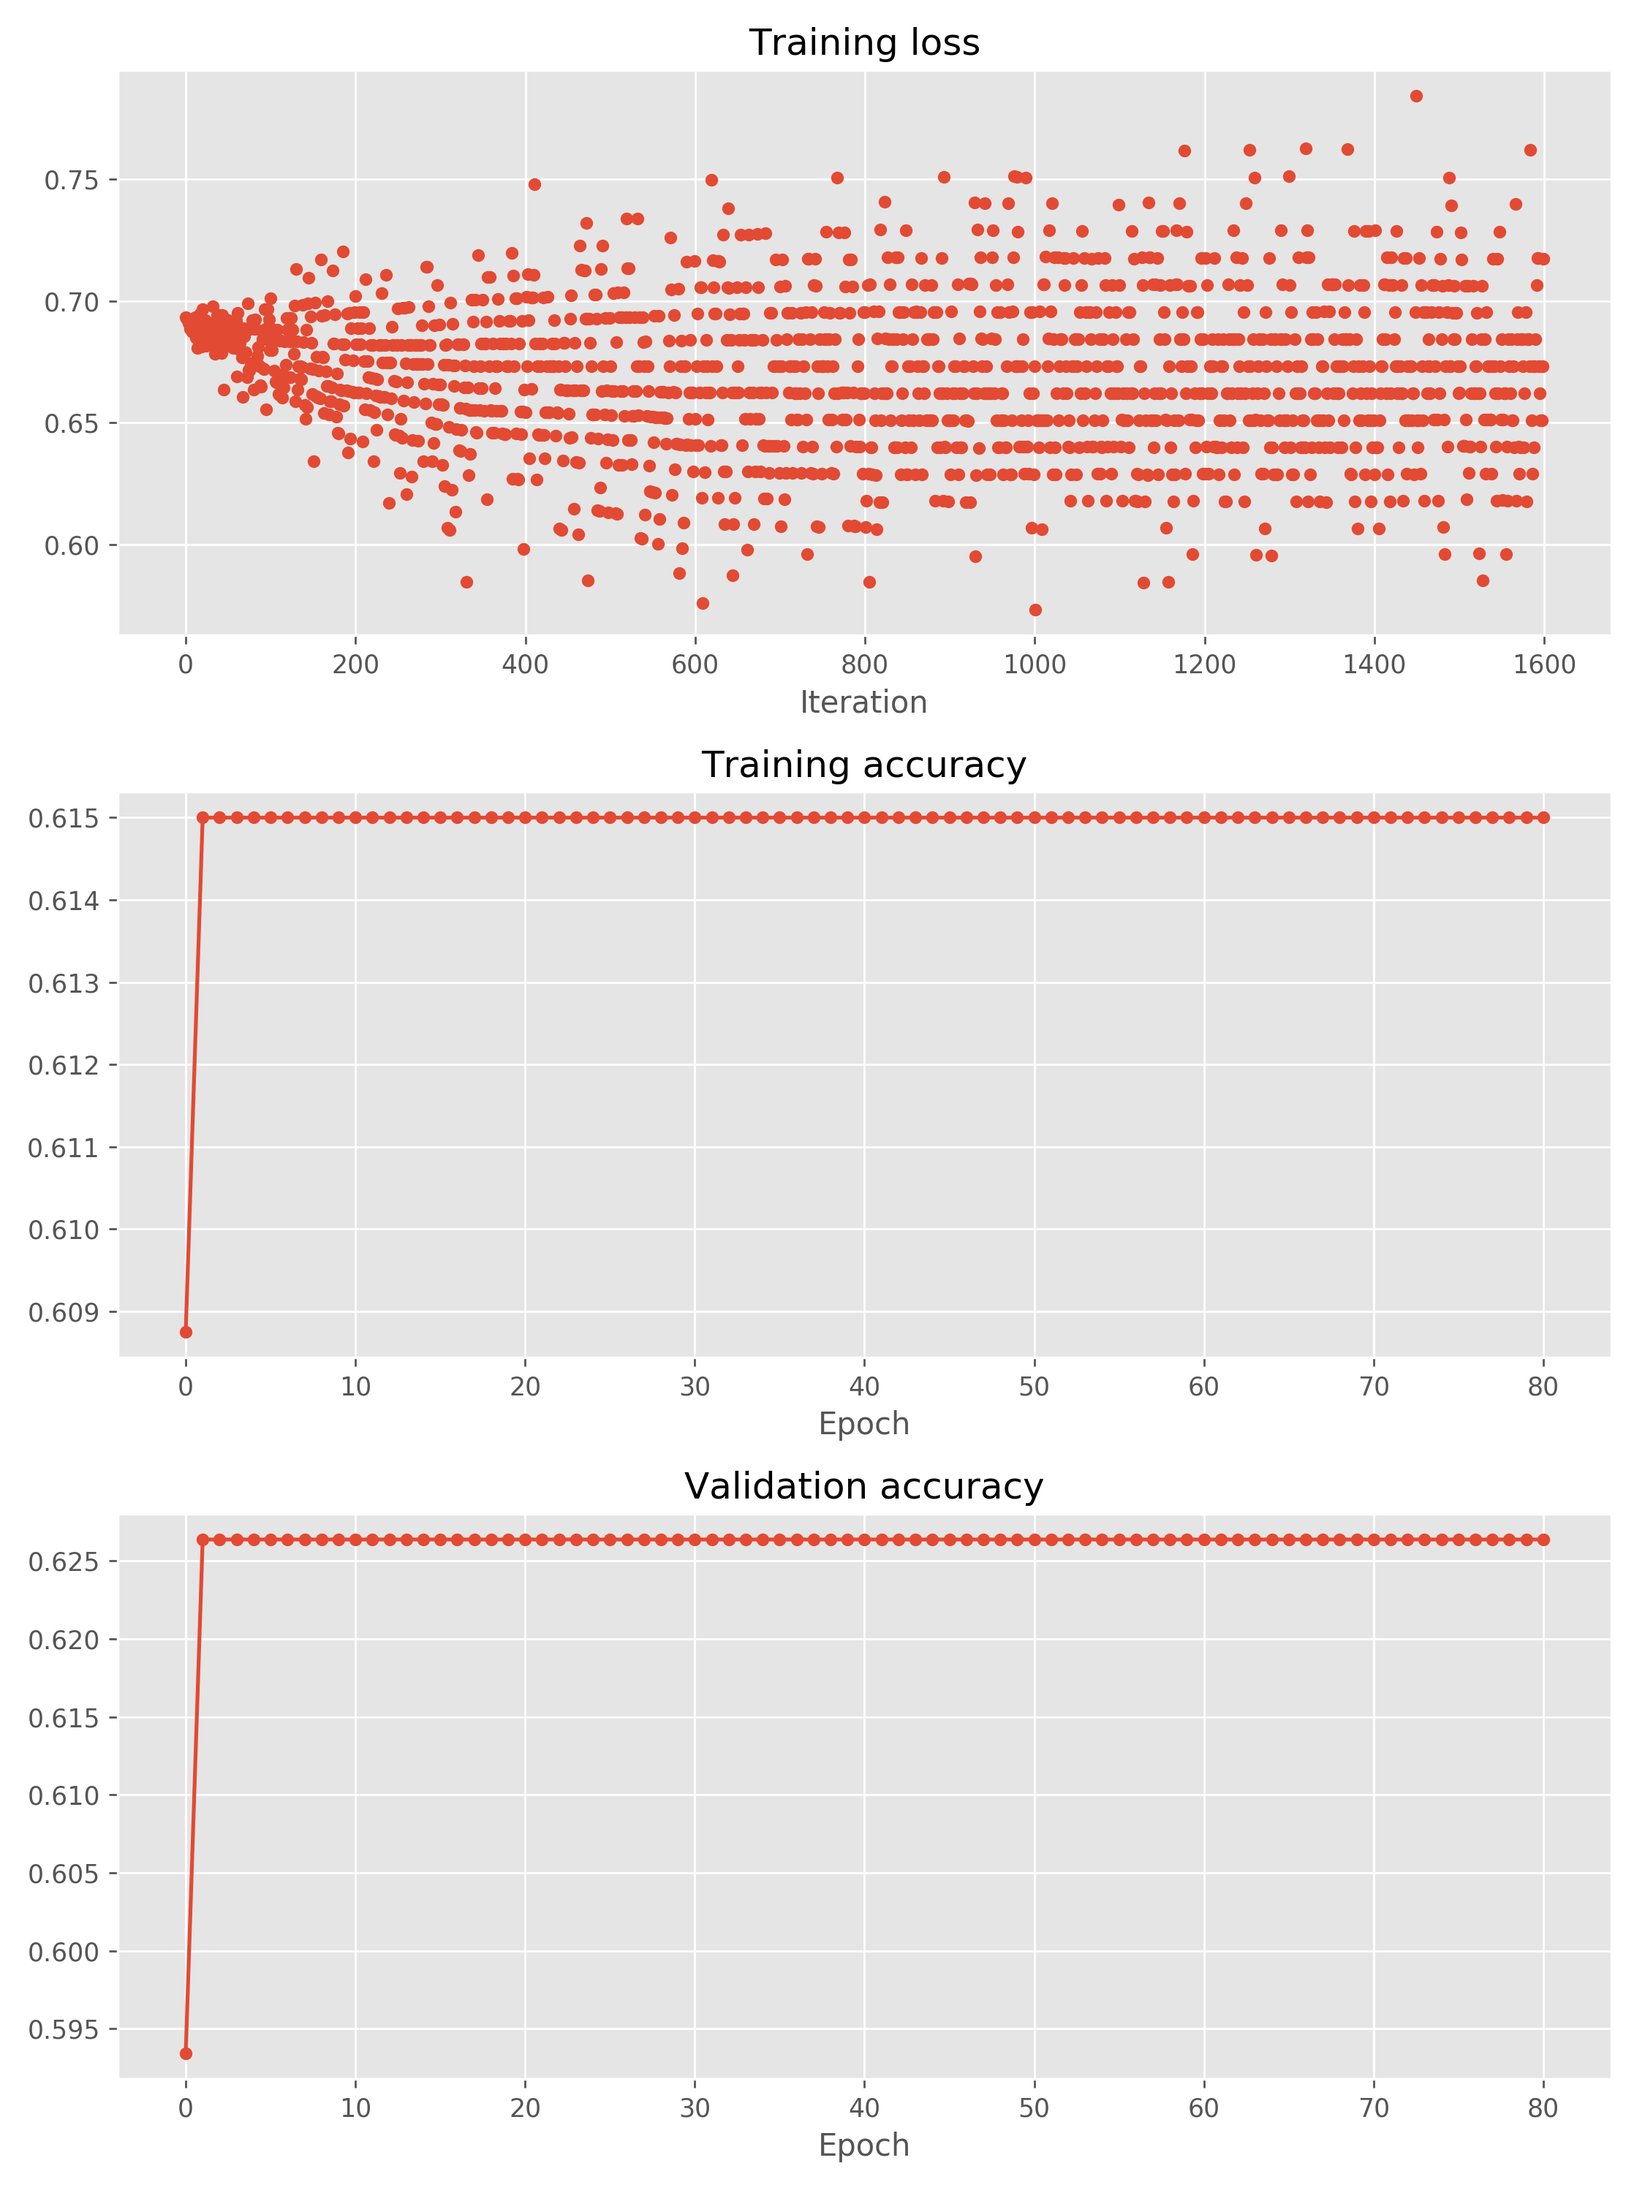
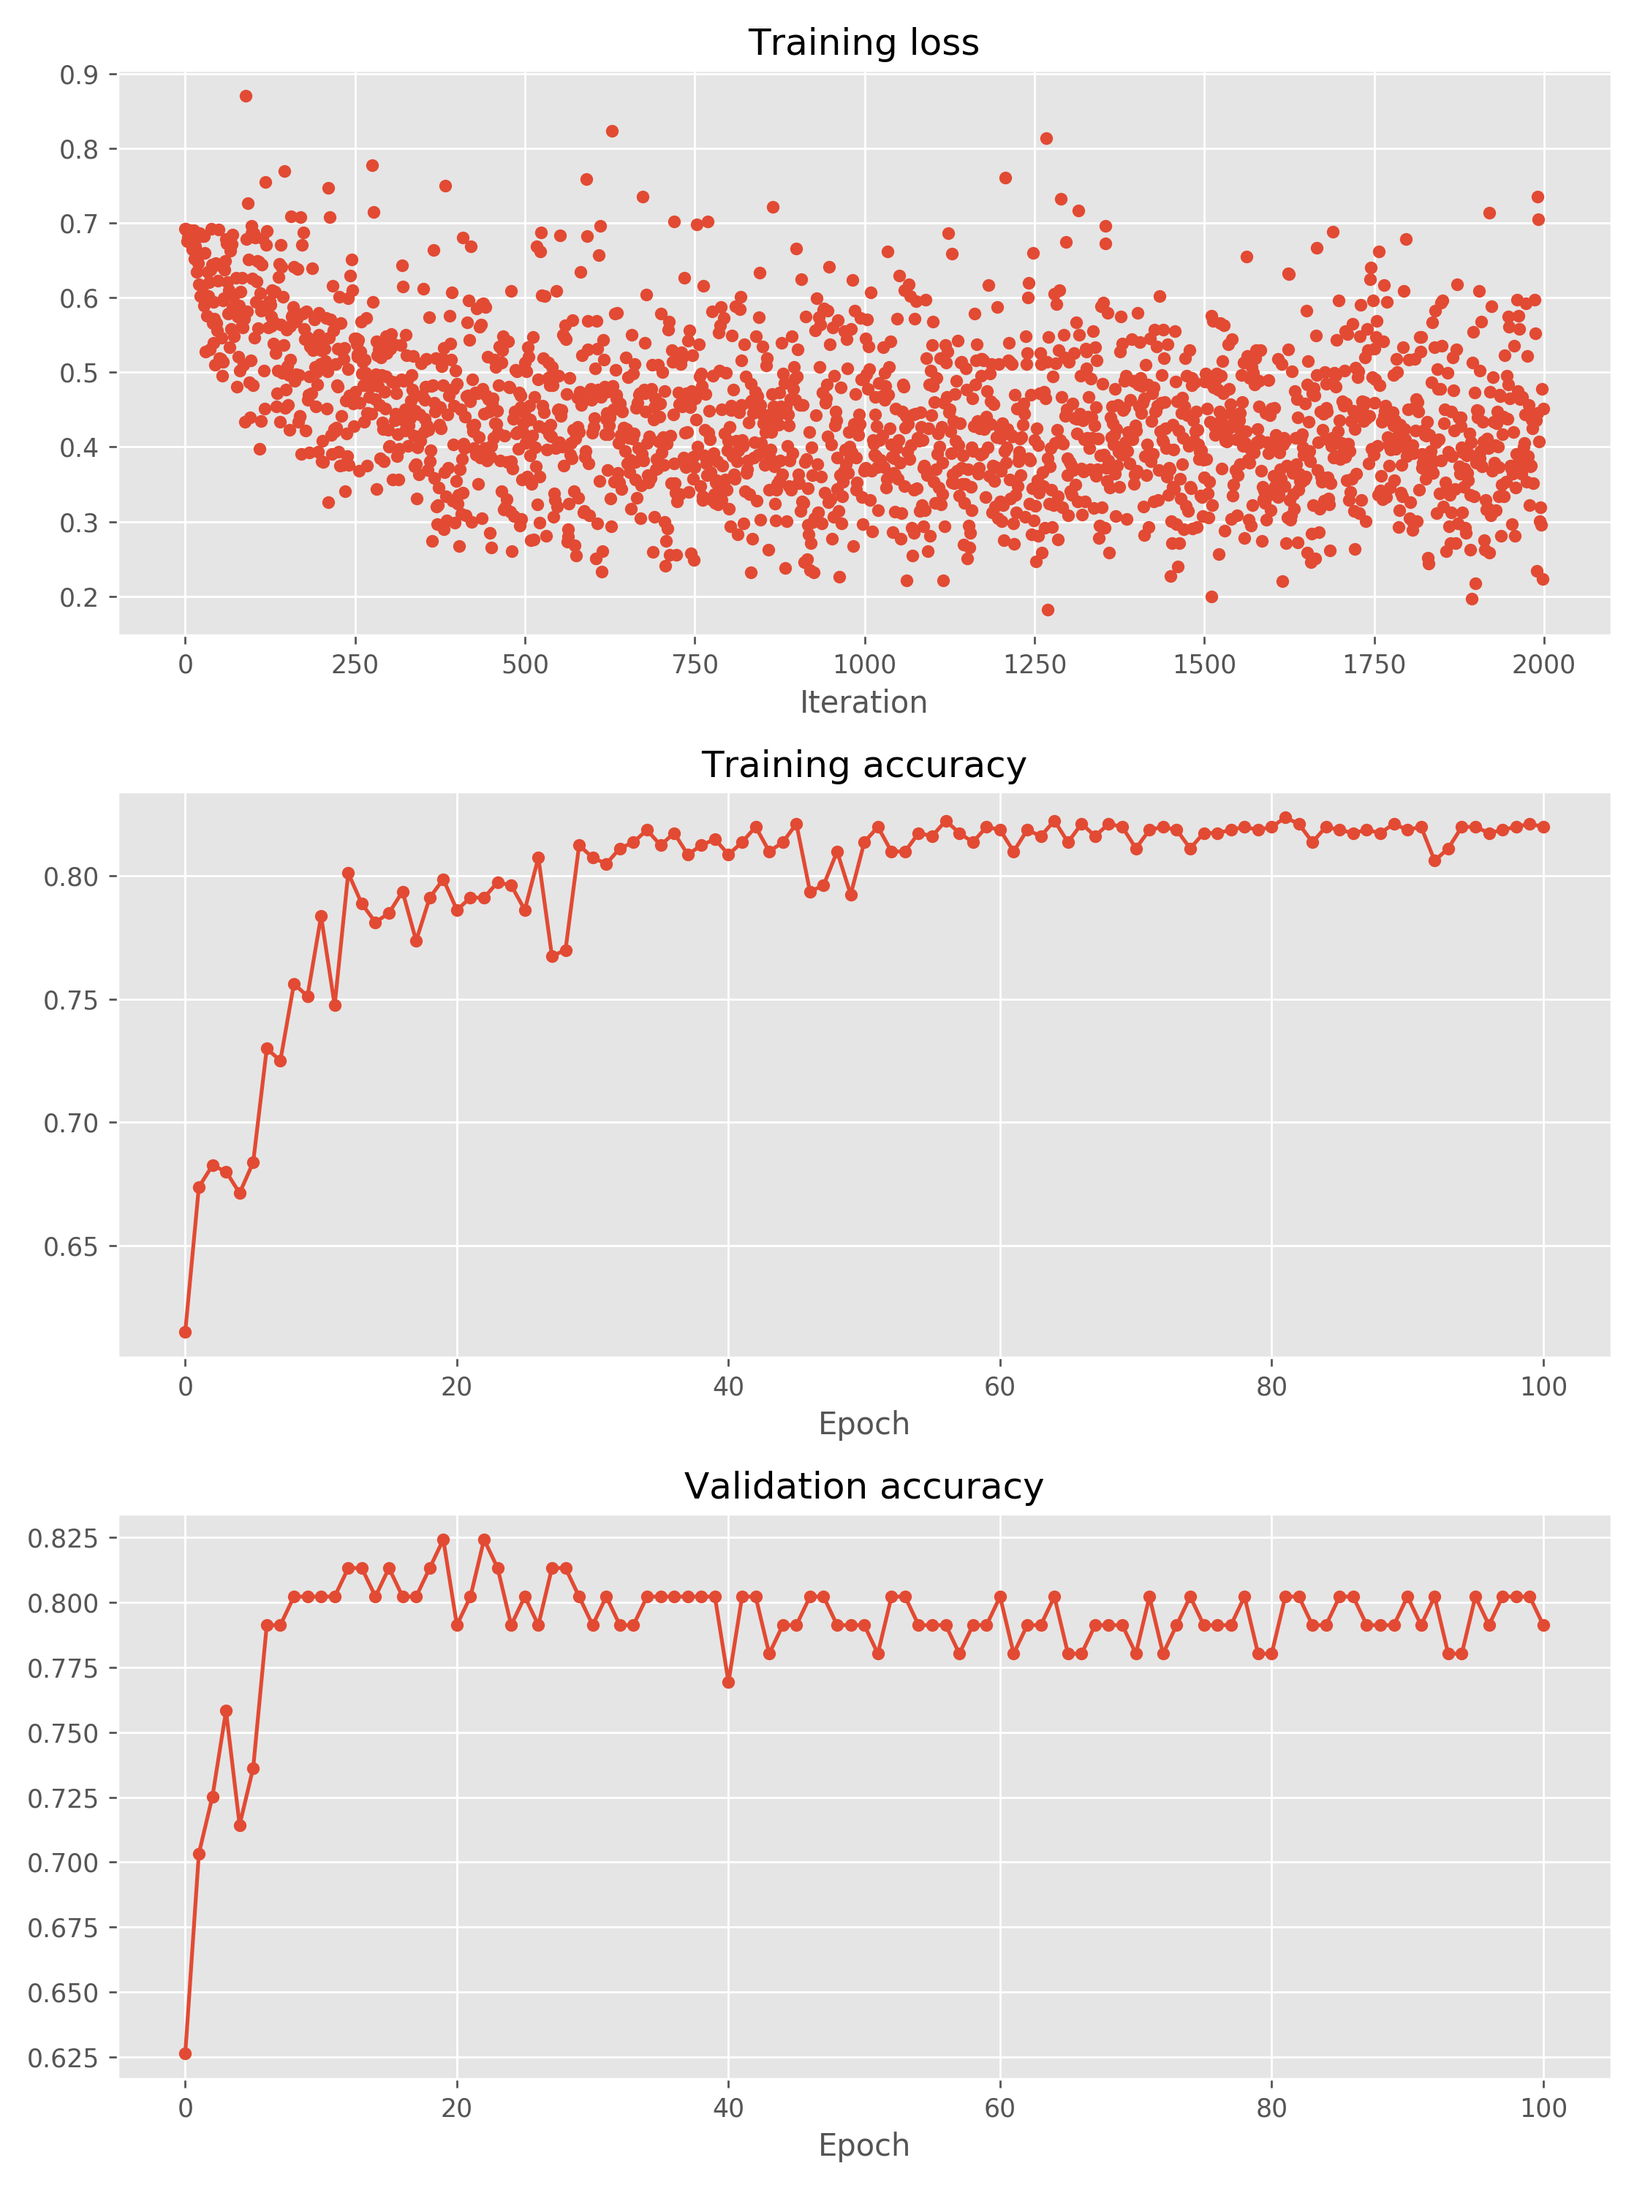
add figure

diff --git a/main.py b/main.py
@@ -8,6 +8,7 @@ from model import FullyConnectedNet
 np.random.seed(0)
 plt.style.use('ggplot')
 OPTIMIZER = 'adam'
+NUM_EPOCH = 100
 
 
 def plot(solver, filename):
@@ -106,9 +107,10 @@ def problem2():
             'learning_rate': 0.01,
         },
         lr_decay=0.95,
-        num_epochs=60,
+        num_epochs=NUM_EPOCH,
         batch_size=40,
-        print_every=100)
+        print_every=100,
+        verbose=False)
     solver_2.train()
     plot(solver_2, 'prob2.png')
     return
@@ -120,13 +122,6 @@ def problem3():
 
     x_train, y_train = data[:800, 1:], data[:800, 0]
     x_test, y_test = data[800:, 1:], data[800:, 0]
-
-    fare_mean, fare_std = np.mean(x_train[:, -1]), np.std(x_train[:, -1])
-    age_mean, age_std = np.mean(x_train[:, 2]), np.std(x_train[:, 2])
-    x_train[:, -1] = (x_train[:, -1] - fare_mean) / fare_std
-    x_test[:, -1] = (x_test[:, -1] - fare_mean) / fare_std
-    x_train[:, 2] = (x_train[:, 2] - age_mean) / age_std
-    x_test[:, 2] = (x_test[:, 2] - age_mean) / age_std
 
     data = {
         'X_train': x_train,
@@ -148,11 +143,55 @@ def problem3():
             'learning_rate': 0.01,
         },
         lr_decay=0.95,
-        num_epochs=60,
+        num_epochs=NUM_EPOCH,
         batch_size=40,
-        print_every=100)
+        print_every=100,
+        name='original',
+        verbose=False)
     solver_3.train()
     plot(solver_3, 'prob3.png')
+
+    # -------------------------------------------------------------------------
+
+    data = data_df.as_matrix()
+    x_train, y_train = data[:800, 1:], data[:800, 0]
+    x_test, y_test = data[800:, 1:], data[800:, 0]
+
+    fare_mean, fare_std = np.mean(x_train[:, -1]), np.std(x_train[:, -1])
+    age_mean, age_std = np.mean(x_train[:, 2]), np.std(x_train[:, 2])
+    x_train[:, -1] = (x_train[:, -1] - fare_mean) / fare_std
+    x_test[:, -1] = (x_test[:, -1] - fare_mean) / fare_std
+    x_train[:, 2] = (x_train[:, 2] - age_mean) / age_std
+    x_test[:, 2] = (x_test[:, 2] - age_mean) / age_std
+
+    data = {
+        'X_train': x_train,
+        'y_train': y_train.astype(int),
+        'X_val': x_test,
+        'y_val': y_test.astype(int),
+    }
+
+    model_3_nor = FullyConnectedNet([3, 3],
+                                input_dim=6,
+                                num_classes=2,
+                                weight_scale=5e-2,
+                                reg=1e-4)
+    solver_3_nor = Solver(
+        model_3_nor,
+        data,
+        update_rule=OPTIMIZER,
+        optim_config={
+            'learning_rate': 0.01,
+        },
+        lr_decay=0.95,
+        num_epochs=NUM_EPOCH,
+        batch_size=40,
+        print_every=100,
+        name='normalized',
+        verbose=False)
+    solver_3_nor.train()
+    plot(solver_3_nor, 'prob3_nor.png')
+    plot_solvers([solver_3, solver_3_nor], 'prob3_compared.png')
     return
 
 
@@ -187,7 +226,7 @@ def problem5():
             'learning_rate': 0.01,
         },
         lr_decay=0.98,
-        num_epochs=80,
+        num_epochs=NUM_EPOCH,
         batch_size=40,
         print_every=100,
         name='original',
@@ -226,7 +265,7 @@ def problem5():
             'learning_rate': 0.01,
         },
         lr_decay=0.98,
-        num_epochs=80,
+        num_epochs=NUM_EPOCH,
         batch_size=40,
         print_every=100,
         name='categorical',
@@ -242,7 +281,7 @@ def problem6():
 
 
 if __name__ == '__main__':
-    # problem2()
-    # problem3()
+    problem2()
+    problem3()
     problem5()
     pass

diff --git a/README.md b/README.md
@@ -13,7 +13,7 @@
 ![](/result/prob2.png)
 
 ### Problem 3
-![](/result/prob3.png)
+![](/result/prob3_compared.png)
 
 ### Problem 4
 ![](/result/prob4.png)
